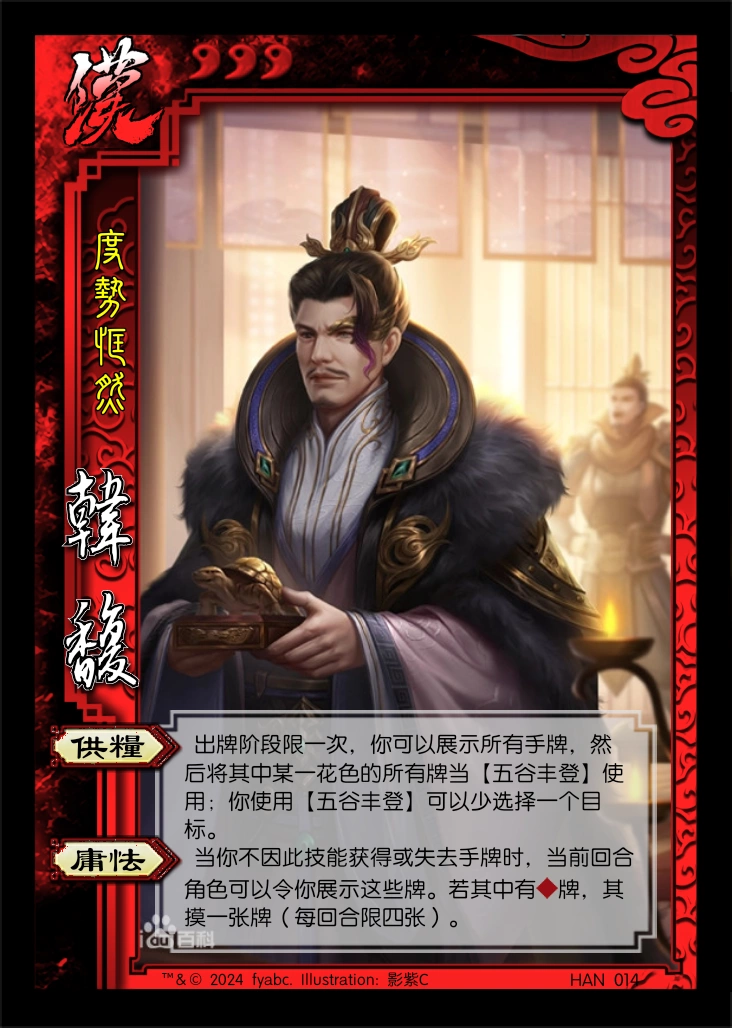
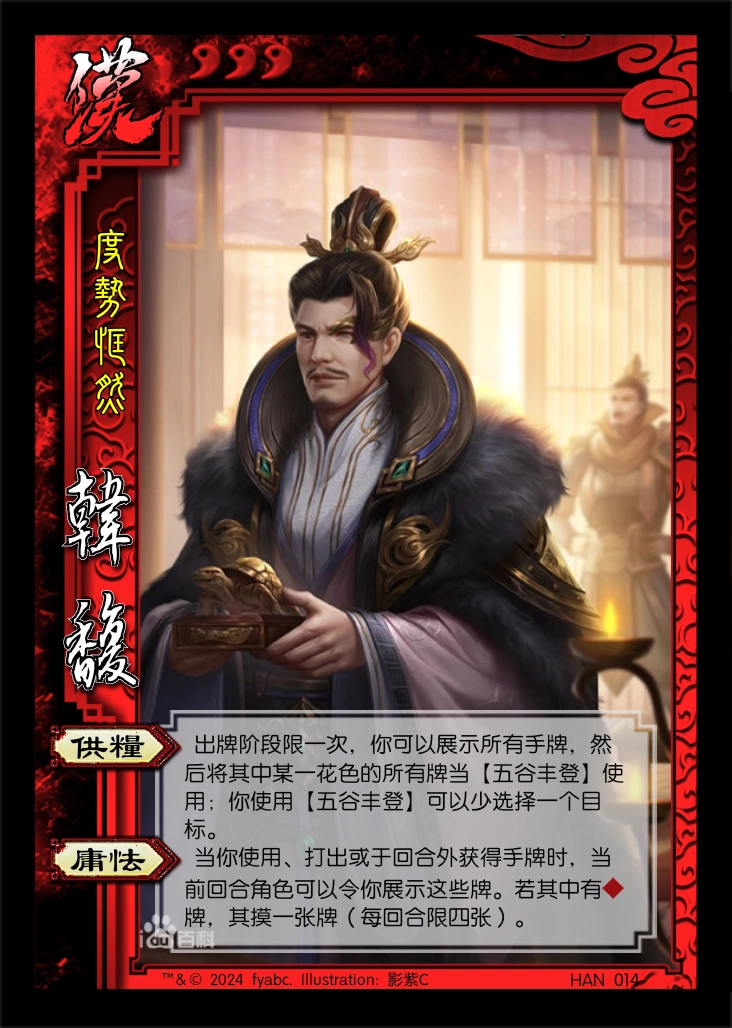
Update in ext3.

Changed region(s): [[0.2404, 0.8093, 0.8716, 0.9027]]

diff --git a/SanGuoSha/SGS-RebirthProject/ext-main/ext3.md b/SanGuoSha/SGS-RebirthProject/ext-main/ext3.md
@@ -141,7 +141,7 @@
    > 本扩展四个汉势力角色的技能包含四种花色中的各一个（孔融为♥）。  
 6. ![韩馥](../assets/images/ext-main/ext3/E3-韩馥.png) HAN014 韩馥 男 汉 3体力 称号：度势恇然
    1. 【供粮】：出牌阶段限一次，你可以展示所有手牌，然后将其中某一花色的所有牌当【五谷丰登】使用；你使用【五谷丰登】可以少选择一个目标。
-   2. 【庸怯】：当你不因此技能获得或失去手牌时，当前回合角色可以令你展示这些牌。若其中有♦牌，其摸一张牌（每回合限四张）。
+   2. 【庸怯】：当你使用、打出或于回合外获得手牌时，当前回合角色可以令你展示这些牌。若其中有♦牌，其摸一张牌（每回合限四张）。
 
    > 【庸怯】说明：1) 若一次性获得或失去了多张手牌（例如摸牌阶段和弃牌阶段），则这些牌至少有一张♦花色即可触发摸牌；2) 韩馥因【庸怯】获得的牌无法触发【庸怯】。  
    > 【庸怯】与讨董联盟时期的袁绍可以相互配合（但受益者为袁绍）；被主版本袁绍克制（响应【万箭齐发】的【闪】多为♦花色），契合人物关系。  
